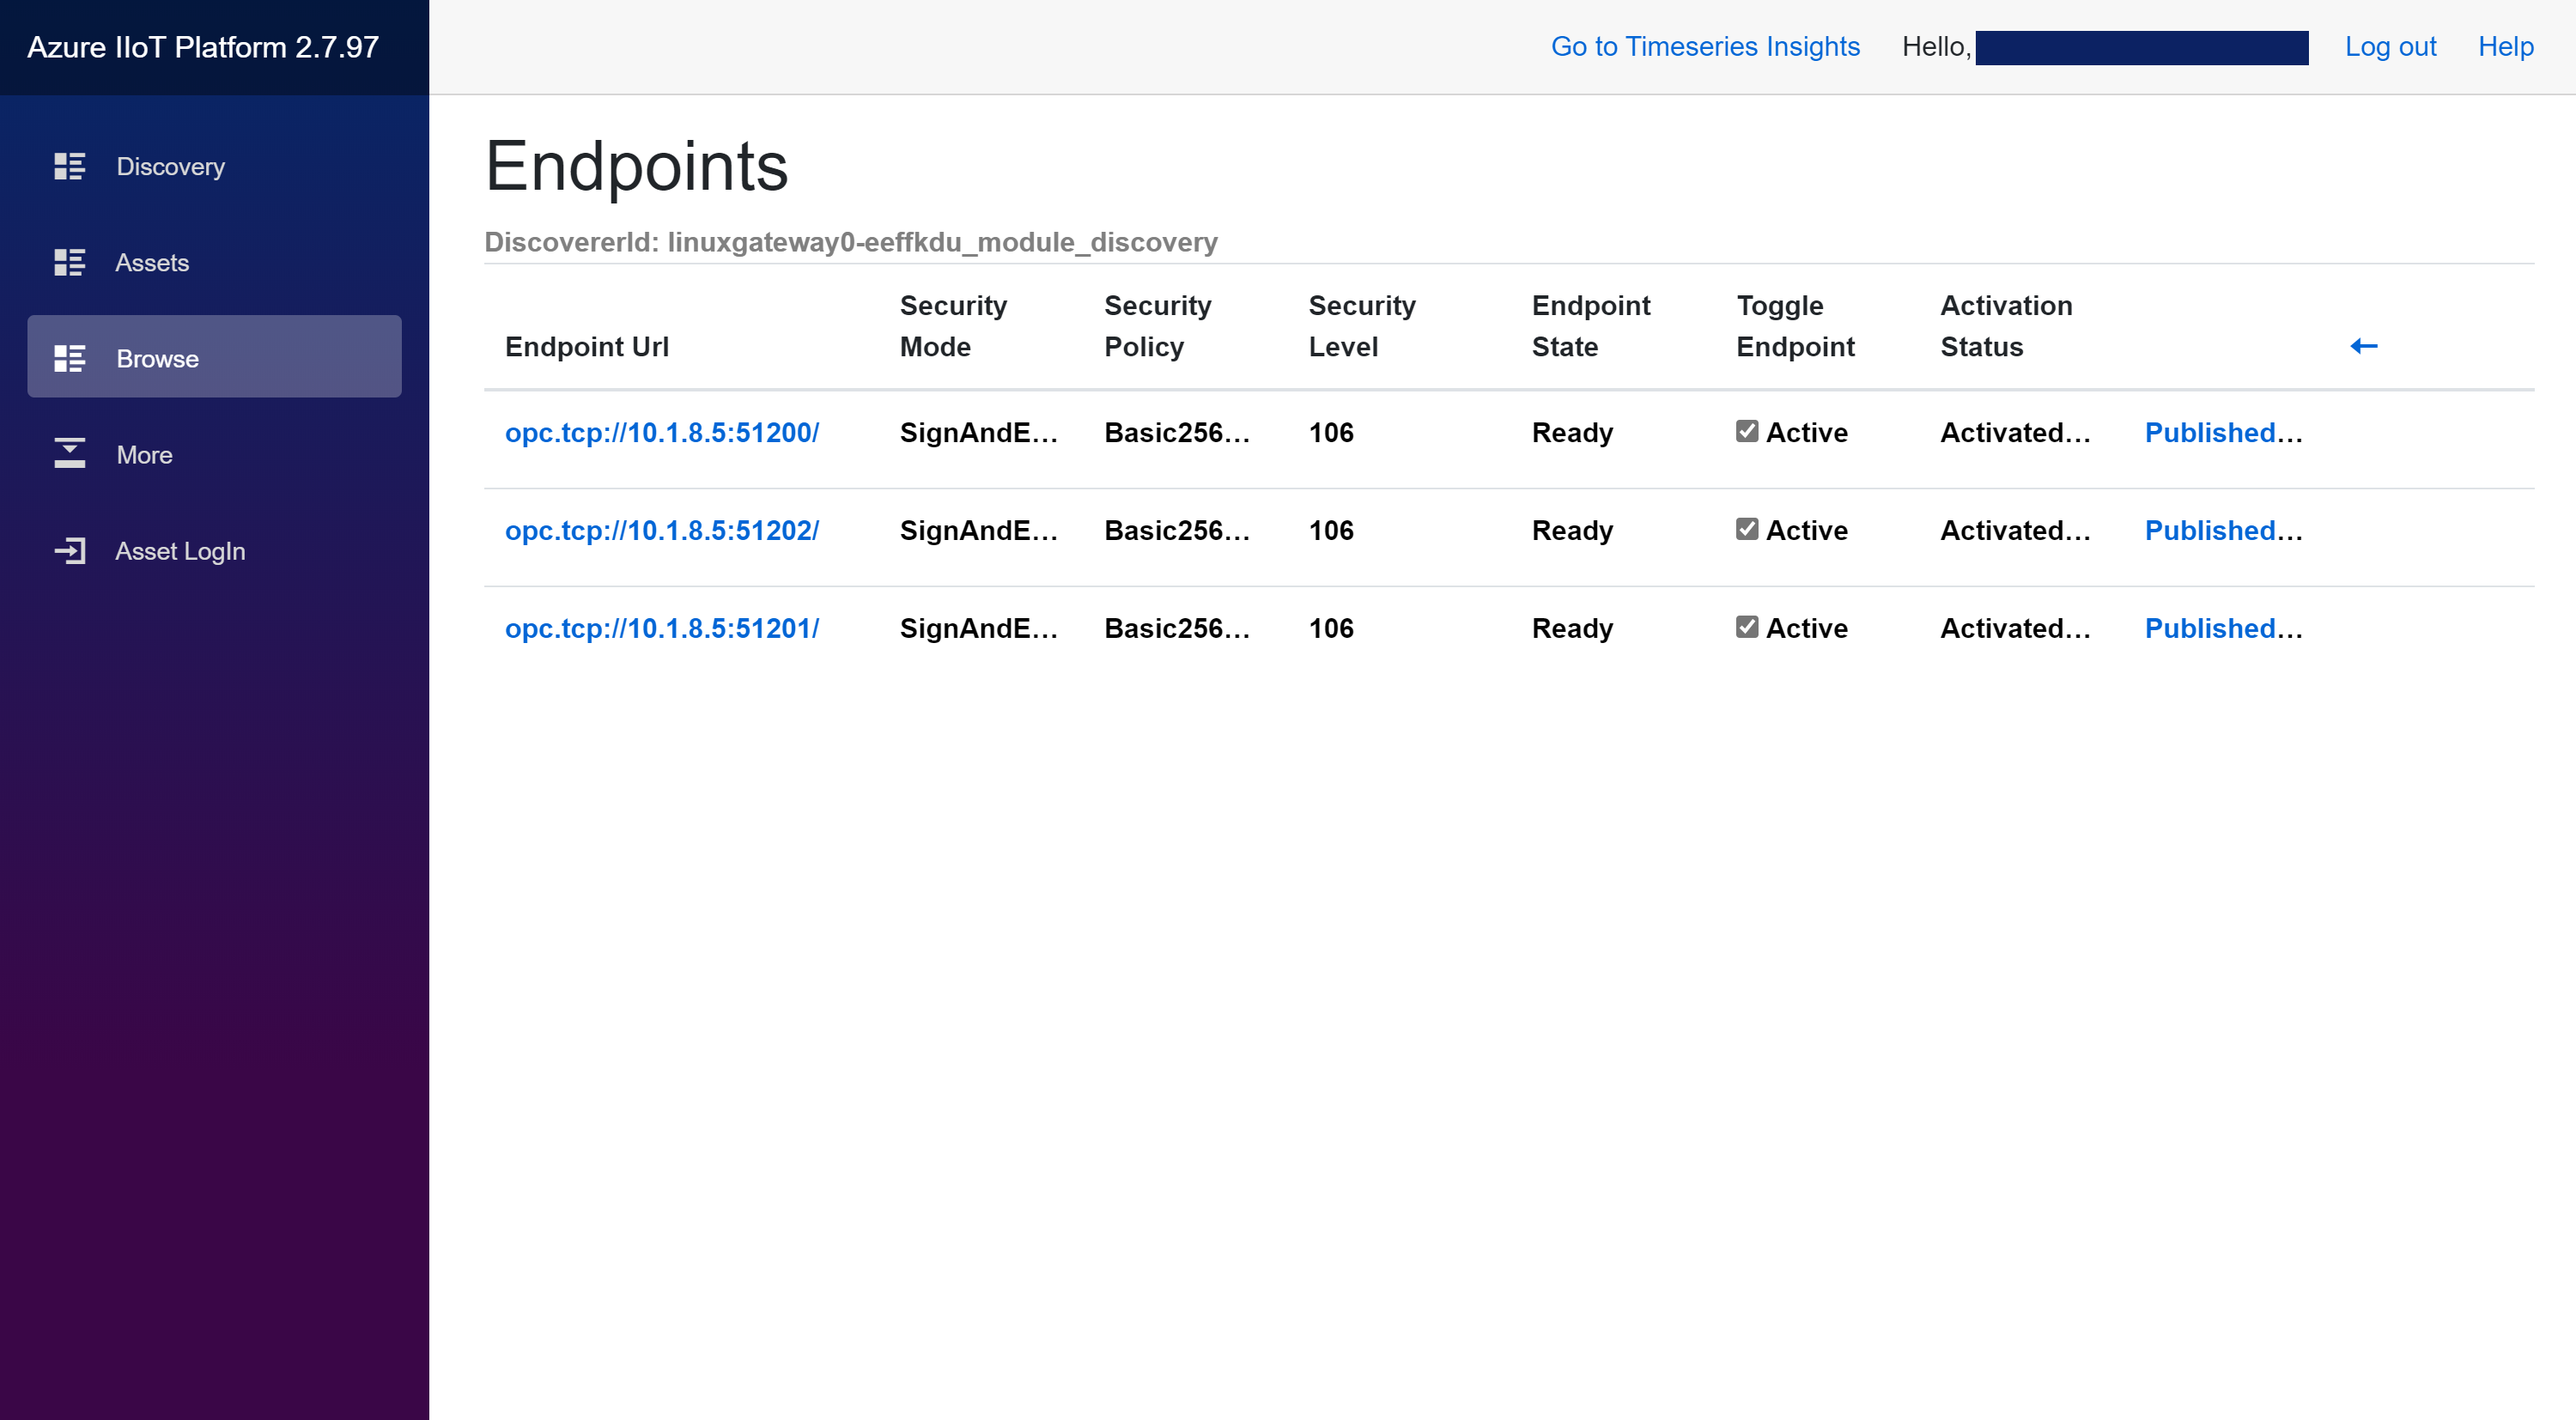
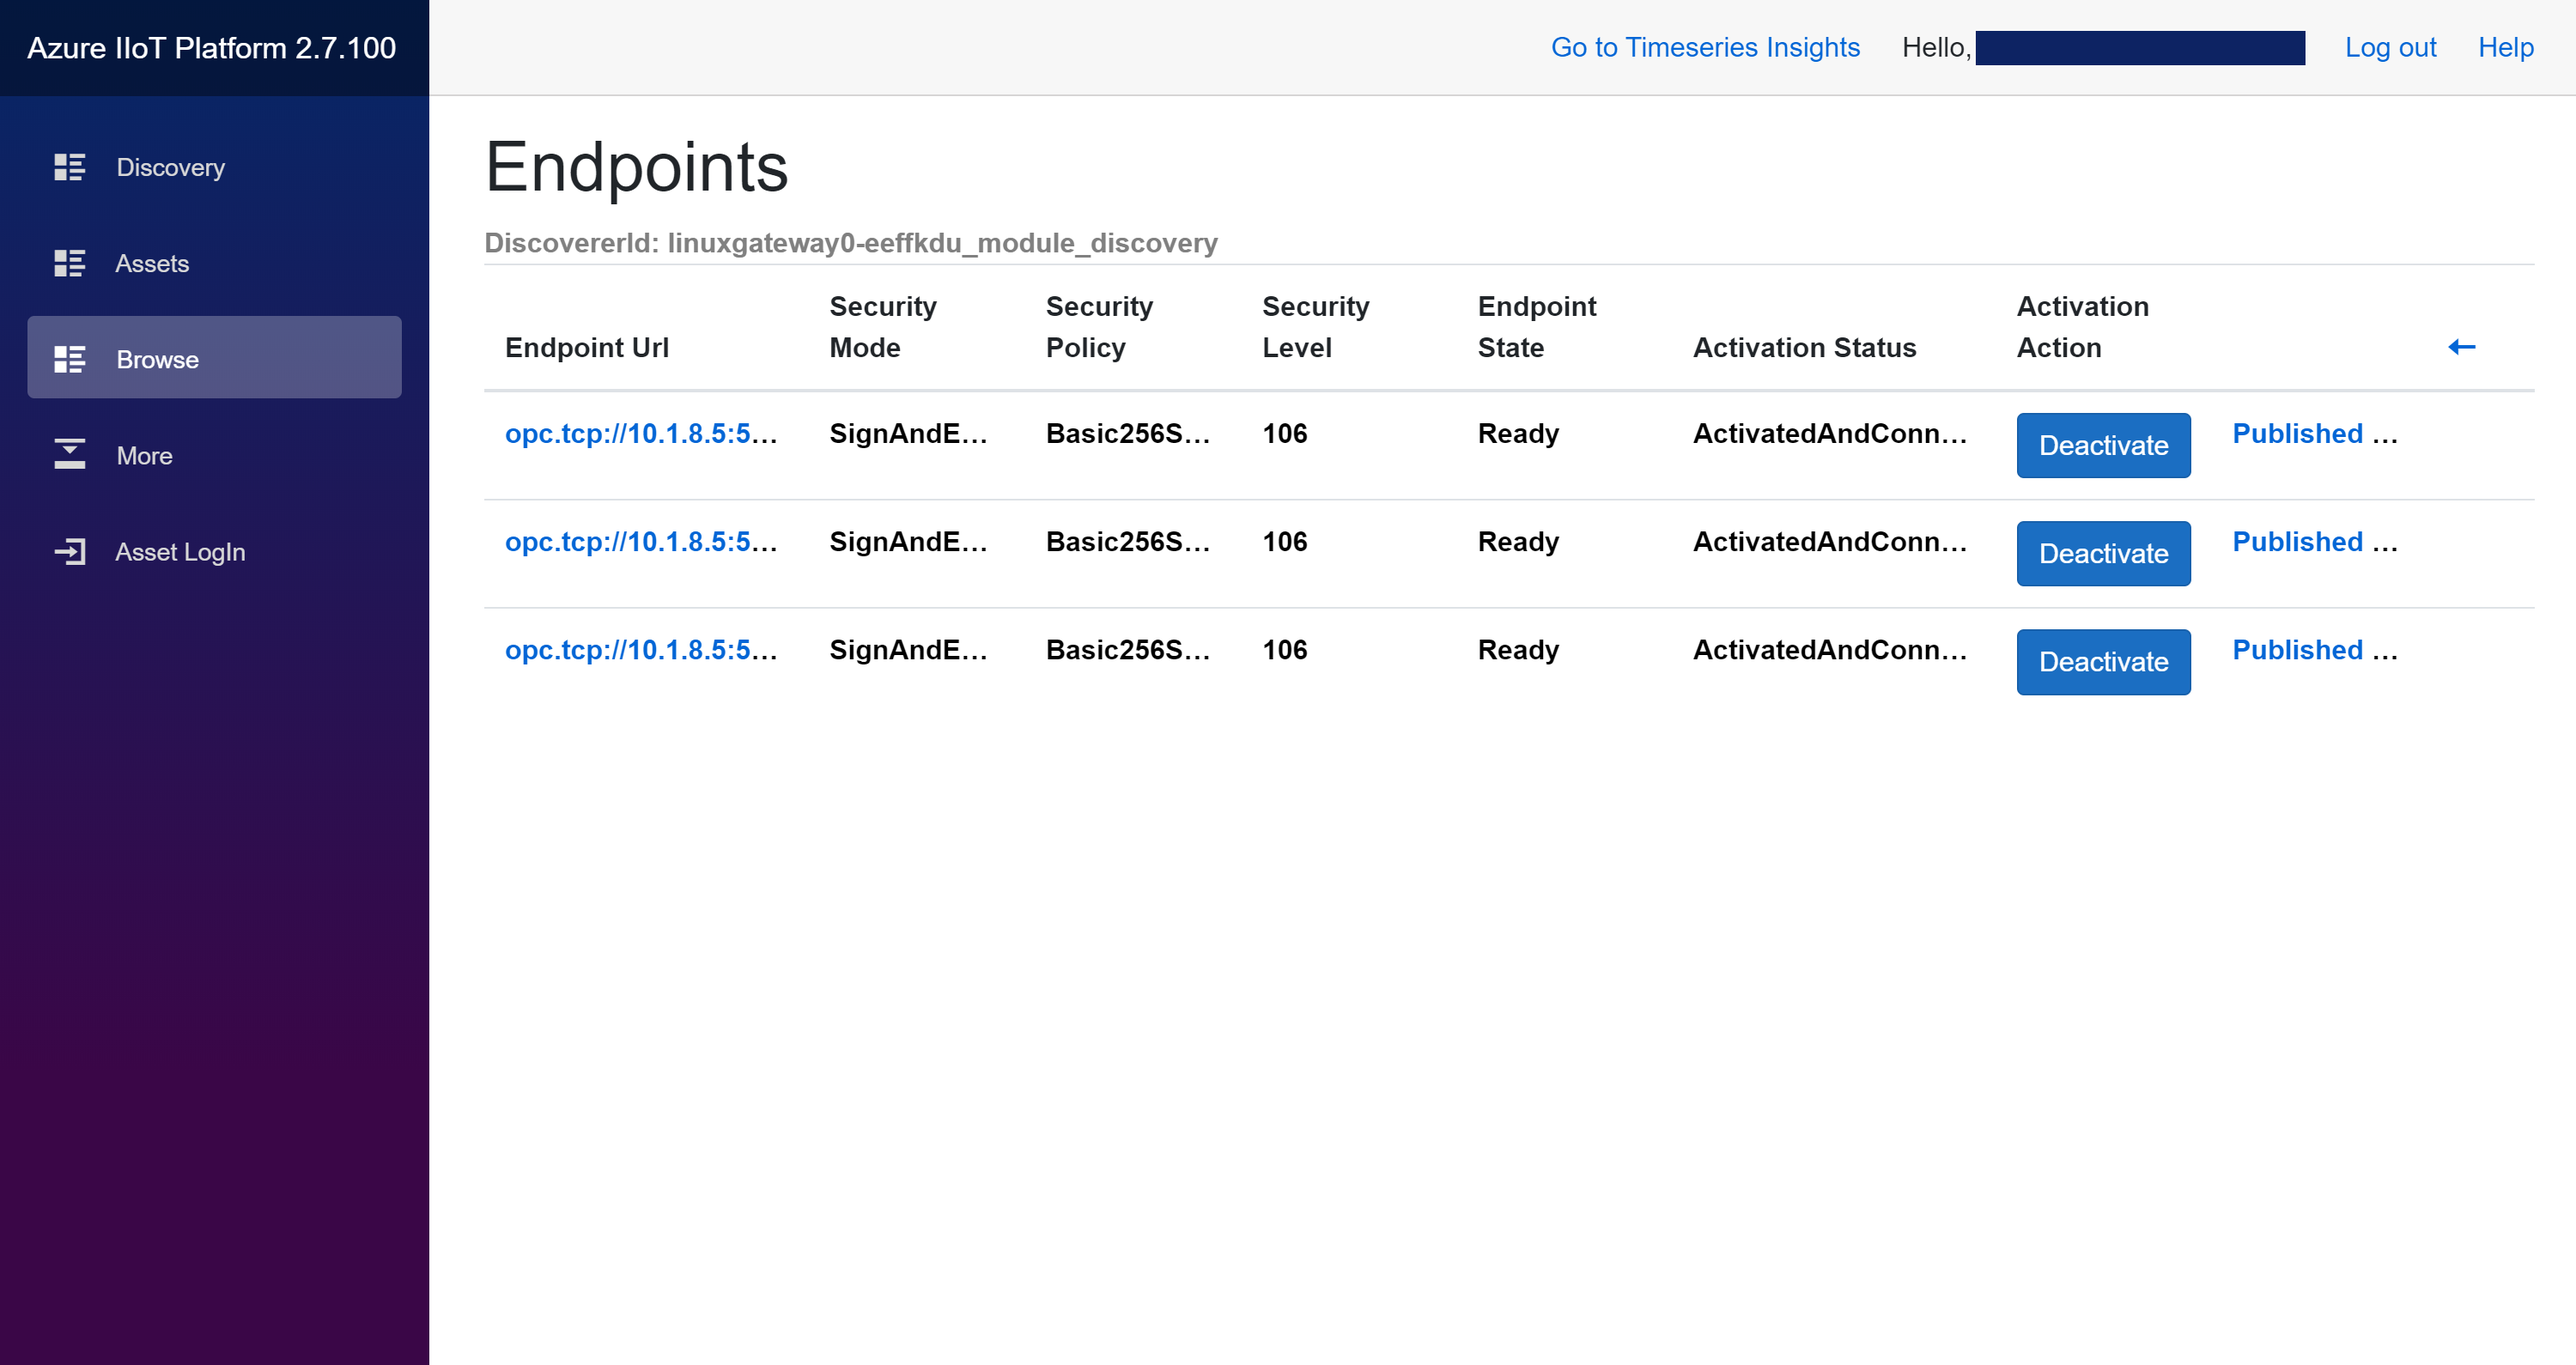
Documentation adapting new frontend changes (#506)
* Updated screenshots

* Documentation update

diff --git a/docs/tutorials/tut-publish-data.md b/docs/tutorials/tut-publish-data.md
@@ -28,7 +28,7 @@ Next section will guide you on the configuration of the data-points to be publis
 
    ![Step 2](../media/tut-publish-data-step2.png)
 
-3. Step 3 - Browse further by clicking on the Node's link (the Node Type) to the desired process data variables in the address space. The variable nodes will display the actual value in the table. The variables can be selected for publishing by checking the Publishing checkbox. 
+3. Step 3 - Browse further by clicking on the Node's link (the Node Type) to the desired process data variables in the address space. The variable nodes will display the actual value in the table. The variables can be selected for publishing by clicking the Turn on button. 
 
    ![Step 3](../media/tut-publish-data-step3.png)
 
